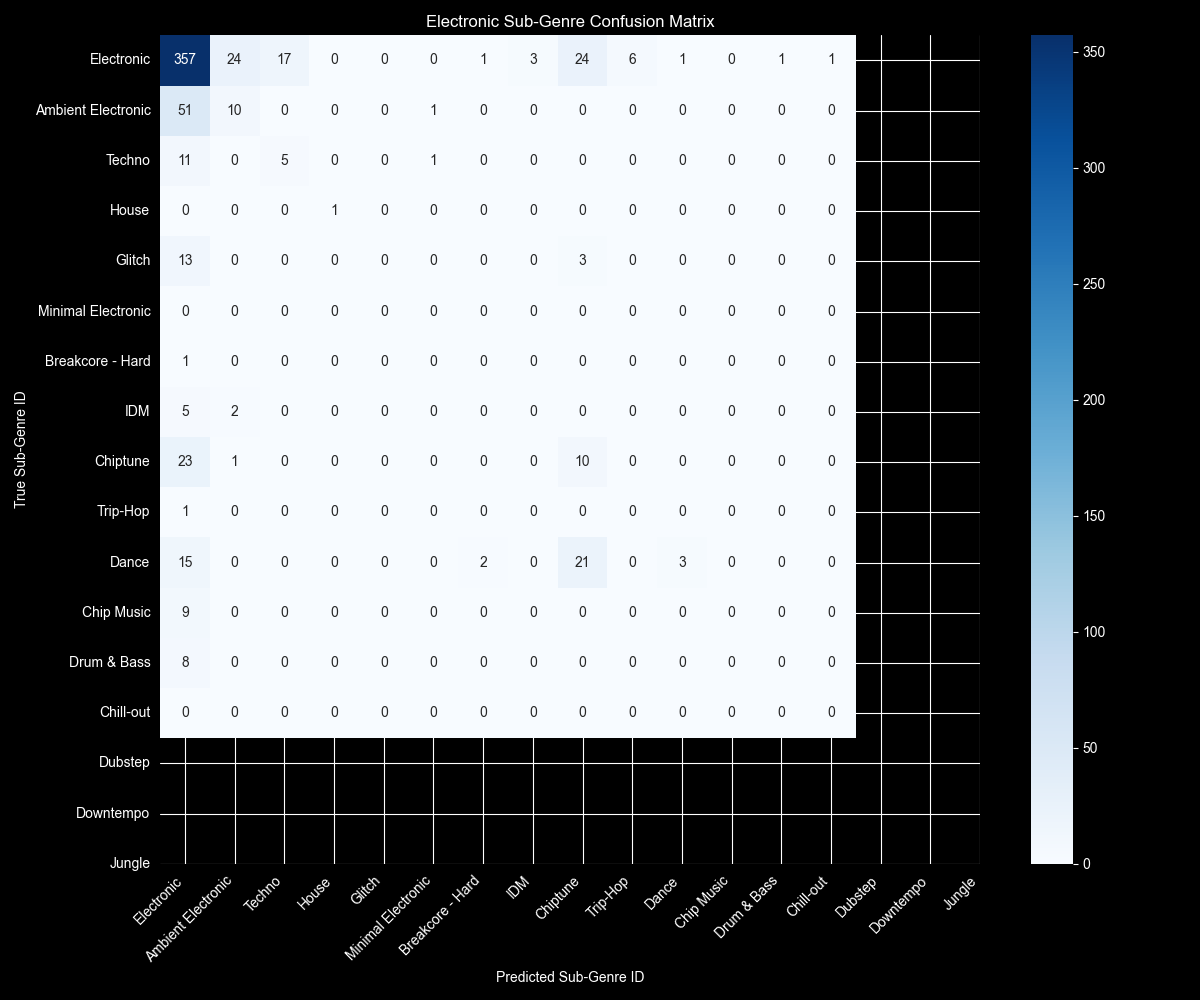
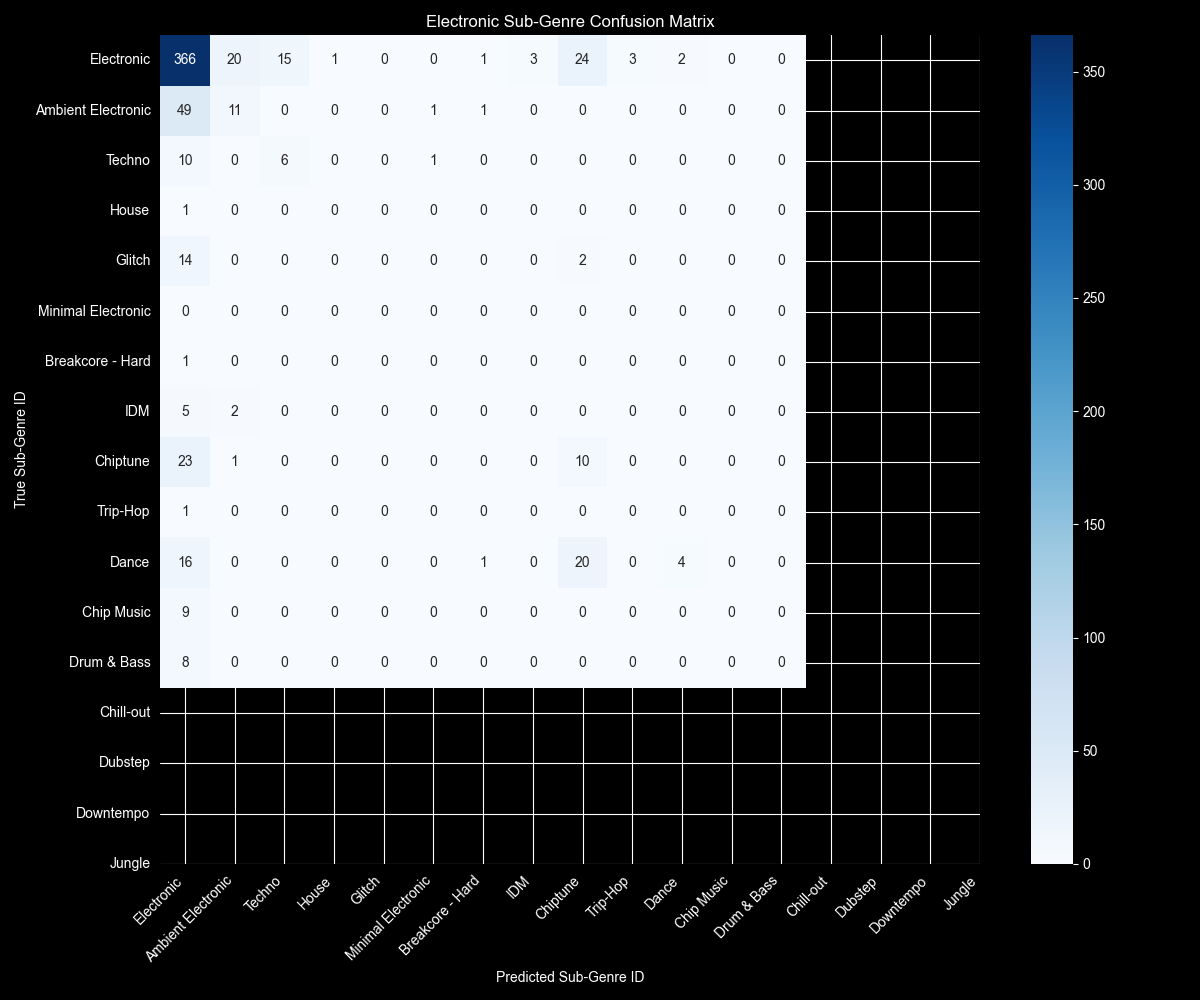
Imbalanced learning

diff --git a/WeightedRandomForest.py b/WeightedRandomForest.py
@@ -1,0 +1,102 @@
+import joblib
+import numpy as np
+from sklearn.tree import DecisionTreeClassifier
+from concurrent.futures import ThreadPoolExecutor
+
+class WeightedRandomForest:
+    def __init__(self, n_estimators=1500, features_per_other_cat=15, class_weight='balanced', max_workers=4):
+        self.n_estimators = n_estimators
+        self.features_per_other_cat = features_per_other_cat
+        self.class_weight = class_weight
+        self.max_workers = max_workers
+        self.trees = []
+        self.feature_indices_per_tree = []
+        self.classes_ = None
+
+        # Feature definition
+        self.mfcc_indices = list(range(294, 434))
+        self.other_groups = {
+            'chroma': range(0, 252),
+            'tonnetz': range(252, 293),
+            'spectral': range(434, 504),
+            'temporal': range(504, 518)
+        }
+
+    def _train_single_tree(self, X, y):
+        selected_indices = list(self.mfcc_indices)
+        for name, indices in self.other_groups.items():
+            feature_count = self.features_per_other_cat
+            if len(indices) < self.features_per_other_cat:
+                feature_count = len(indices) // 2
+            selection = np.random.choice(indices, feature_count, replace=False)
+            selected_indices.extend(selection)
+
+        n_samples = X.shape[0]
+        idx = np.random.choice(n_samples, n_samples, replace=True)
+
+        tree = DecisionTreeClassifier(
+            max_features='sqrt',
+            class_weight=self.class_weight,
+            min_samples_leaf=5
+        )
+        tree.fit(X[idx][:, selected_indices], y[idx])
+        return tree, selected_indices
+
+    def fit(self, X, y):
+        self.trees = []
+        self.feature_indices_per_tree = []
+        self.classes_ = np.unique(y)
+
+        if hasattr(X, "values"):
+            X = X.values
+
+        with ThreadPoolExecutor(max_workers=self.max_workers) as executor:
+            results = list(executor.map(lambda _: self._train_single_tree(X, y), range(self.n_estimators)))
+
+        for tree, indices in results:
+            self.trees.append(tree)
+            self.feature_indices_per_tree.append(indices)
+
+    def predict(self, X):
+        if hasattr(X, "values"):
+            X = X.values
+
+        all_probabilities = np.zeros((X.shape[0], len(self.classes_)))
+
+        for i in range(len(self.trees)):
+            X_subset = X[:, self.feature_indices_per_tree[i]]
+            all_probabilities += self.trees[i].predict_proba(X_subset)
+
+        final_idx = np.argmax(all_probabilities, axis=1)
+        return self.classes_[final_idx]
+
+    # --- Persistence Methods ---
+
+    def save(self, filename):
+        """Saves the entire model state to a file."""
+        model_data = {
+            'trees': self.trees,
+            'feature_indices_per_tree': self.feature_indices_per_tree,
+            'classes_': self.classes_,
+            'params': {
+                'n_estimators': self.n_estimators,
+                'features_per_other_cat': self.features_per_other_cat,
+                'class_weight': self.class_weight
+            }
+        }
+        joblib.dump(model_data, filename)
+        print(f"Model saved to {filename}")
+
+    def load(self, filename):
+        """Loads the model state from a file."""
+        model_data = joblib.load(filename)
+        self.trees = model_data['trees']
+        self.feature_indices_per_tree = model_data['feature_indices_per_tree']
+        self.classes_ = model_data['classes_']
+
+        # Restore parameters
+        params = model_data['params']
+        self.n_estimators = params['n_estimators']
+        self.features_per_other_cat = params['features_per_other_cat']
+        self.class_weight = params['class_weight']
+        print(f"Model loaded from {filename}")

diff --git a/MfccFixedRandomForest.py b/MfccFixedRandomForest.py
@@ -10,7 +10,6 @@ class MfccFixedRandomForest:
         self.trees = []
         self.feature_indices_per_tree = []
 
-        # Based on your extraction code:
         # Chroma: 0-251, Tonnetz: 252-293, MFCC: 294-433, Spectral: 434-503, Temporal: 504-517
         self.mfcc_indices = list(range(294, 434))
         self.other_groups = {
@@ -22,10 +21,8 @@ class MfccFixedRandomForest:
 
     def fit(self, X, y):
         for _ in range(self.n_estimators):
-            # 1. Start with ALL MFCC features
             selected_indices = list(self.mfcc_indices)
 
-            # 2. Add random samples from the remaining categories
             for name, indices in self.other_groups.items():
                 feature_count = self.features_per_other_cat
                 if len(indices) < self.features_per_other_cat:
@@ -33,11 +30,9 @@ class MfccFixedRandomForest:
                 selection = np.random.choice(indices, feature_count, replace=False)
                 selected_indices.extend(selection)
 
-            # 3. Standard bootstrap and train
             n_samples = X.shape[0]
             idx = np.random.choice(n_samples, n_samples, replace=True)
 
-            # Train the tree on this specific feature subset
             tree = DecisionTreeClassifier(max_features='sqrt', class_weight='balanced', min_samples_leaf=5)
             tree.fit(X[idx][:, selected_indices], y[idx])
 
@@ -45,20 +40,14 @@ class MfccFixedRandomForest:
             self.feature_indices_per_tree.append(selected_indices)
 
     def predict(self, X):
-        # List to store the vote from each tree
         tree_predictions = []
 
         for i, tree in enumerate(self.trees):
-            # Extract the specific features this tree knows about
-            # This includes the 140 MFCCs + the random 'other' features
             X_subset = X[:, self.feature_indices_per_tree[i]]
 
-            # Get the tree's individual opinion
             prediction = tree.predict(X_subset)
             tree_predictions.append(prediction)
 
-        # Majority Vote: Find the most frequent label across all trees
-        # axis=0 calculates the mode across the trees for each sample in X
         final_predictions, count = stats.mode(np.array(tree_predictions), axis=0)
 
         return final_predictions.ravel()
